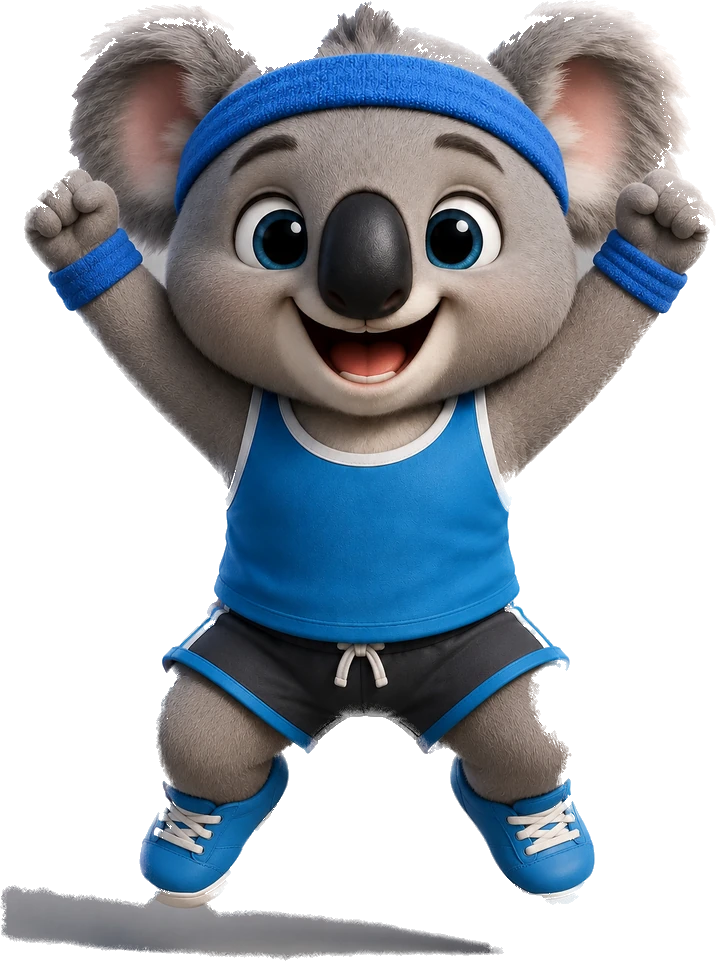
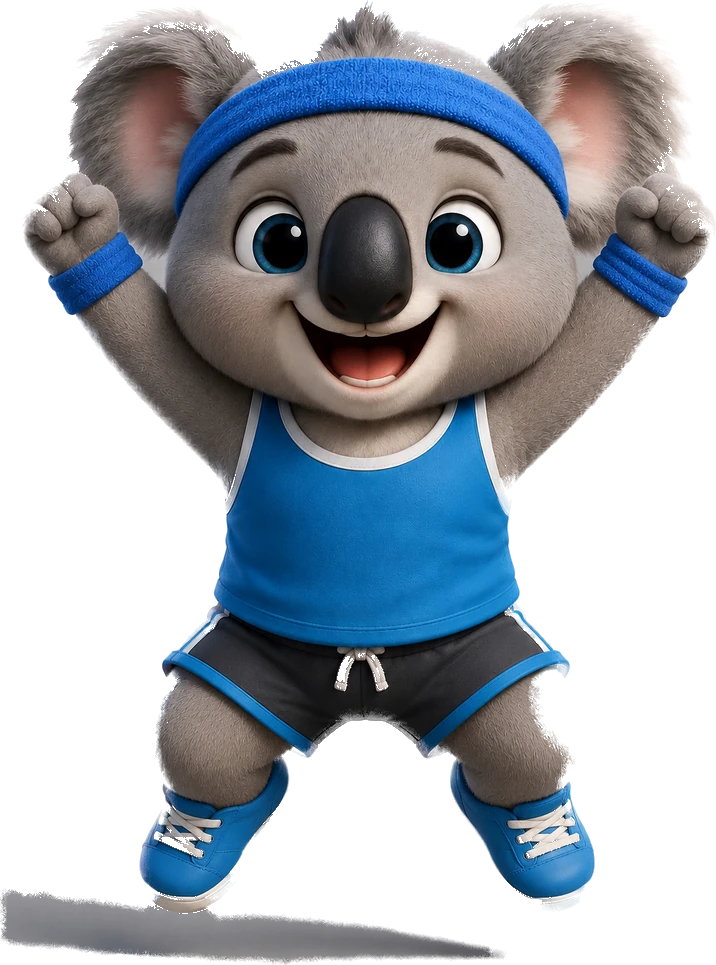
fix(native): surgical mascot cleanup — only feet + crotch, smooth fur restored
Revert the over-aggressive alpha cutoff that choppy-edged the fur, and
instead clean ONLY the two remaining spots the user flagged: the drop shadow
under the feet and the grey background trapped between the legs (crotch). A
targeted mask limited to the bottom band + a central crotch column removes
grey bg-toned pixels there while keeping the blue/white shoes and darker leg
fur; the rest of the silhouette is untouched, so the smooth fur edges are
back. Aspects updated.

Claude-Session: https://claude.ai/code/session_01CUH7TUGEuziSHu9PpEAzPC

diff --git a/native/src/lib/mascot-images.ts b/native/src/lib/mascot-images.ts
@@ -54,15 +54,15 @@ const art = (source: number, aspect: number): PoseArt => ({ source, aspect });
 export const MASCOT_IMAGES: Record<string, MascotImageSet> = {
   koa: {
     idle: art(require('../../assets/mascots/koa.png'), 859 / 640),
-    happy: art(require('../../assets/mascots/koa-happy.webp'), 1.318),
-    sad: art(require('../../assets/mascots/koa-sad.webp'), 1.298),
-    tired: art(require('../../assets/mascots/koa-sad.webp'), 1.298),
+    happy: art(require('../../assets/mascots/koa-happy.webp'), 1.326),
+    sad: art(require('../../assets/mascots/koa-sad.webp'), 1.305),
+    tired: art(require('../../assets/mascots/koa-sad.webp'), 1.305),
     sleep: art(require('../../assets/mascots/koa-sleep.webp'), 1.443),
-    celebrate: art(require('../../assets/mascots/koa-celebrate.webp'), 1.342),
-    curl: art(require('../../assets/mascots/koa-curl.webp'), 1.322),
-    wave: art(require('../../assets/mascots/koa-wave.webp'), 1.318),
-    hat: art(require('../../assets/mascots/koa-hat.webp'), 1.527),
-    coat: art(require('../../assets/mascots/koa-coat.webp'), 1.365),
+    celebrate: art(require('../../assets/mascots/koa-celebrate.webp'), 1.348),
+    curl: art(require('../../assets/mascots/koa-curl.webp'), 1.329),
+    wave: art(require('../../assets/mascots/koa-wave.webp'), 1.324),
+    hat: art(require('../../assets/mascots/koa-hat.webp'), 1.525),
+    coat: art(require('../../assets/mascots/koa-coat.webp'), 1.374),
   },
 };
 
